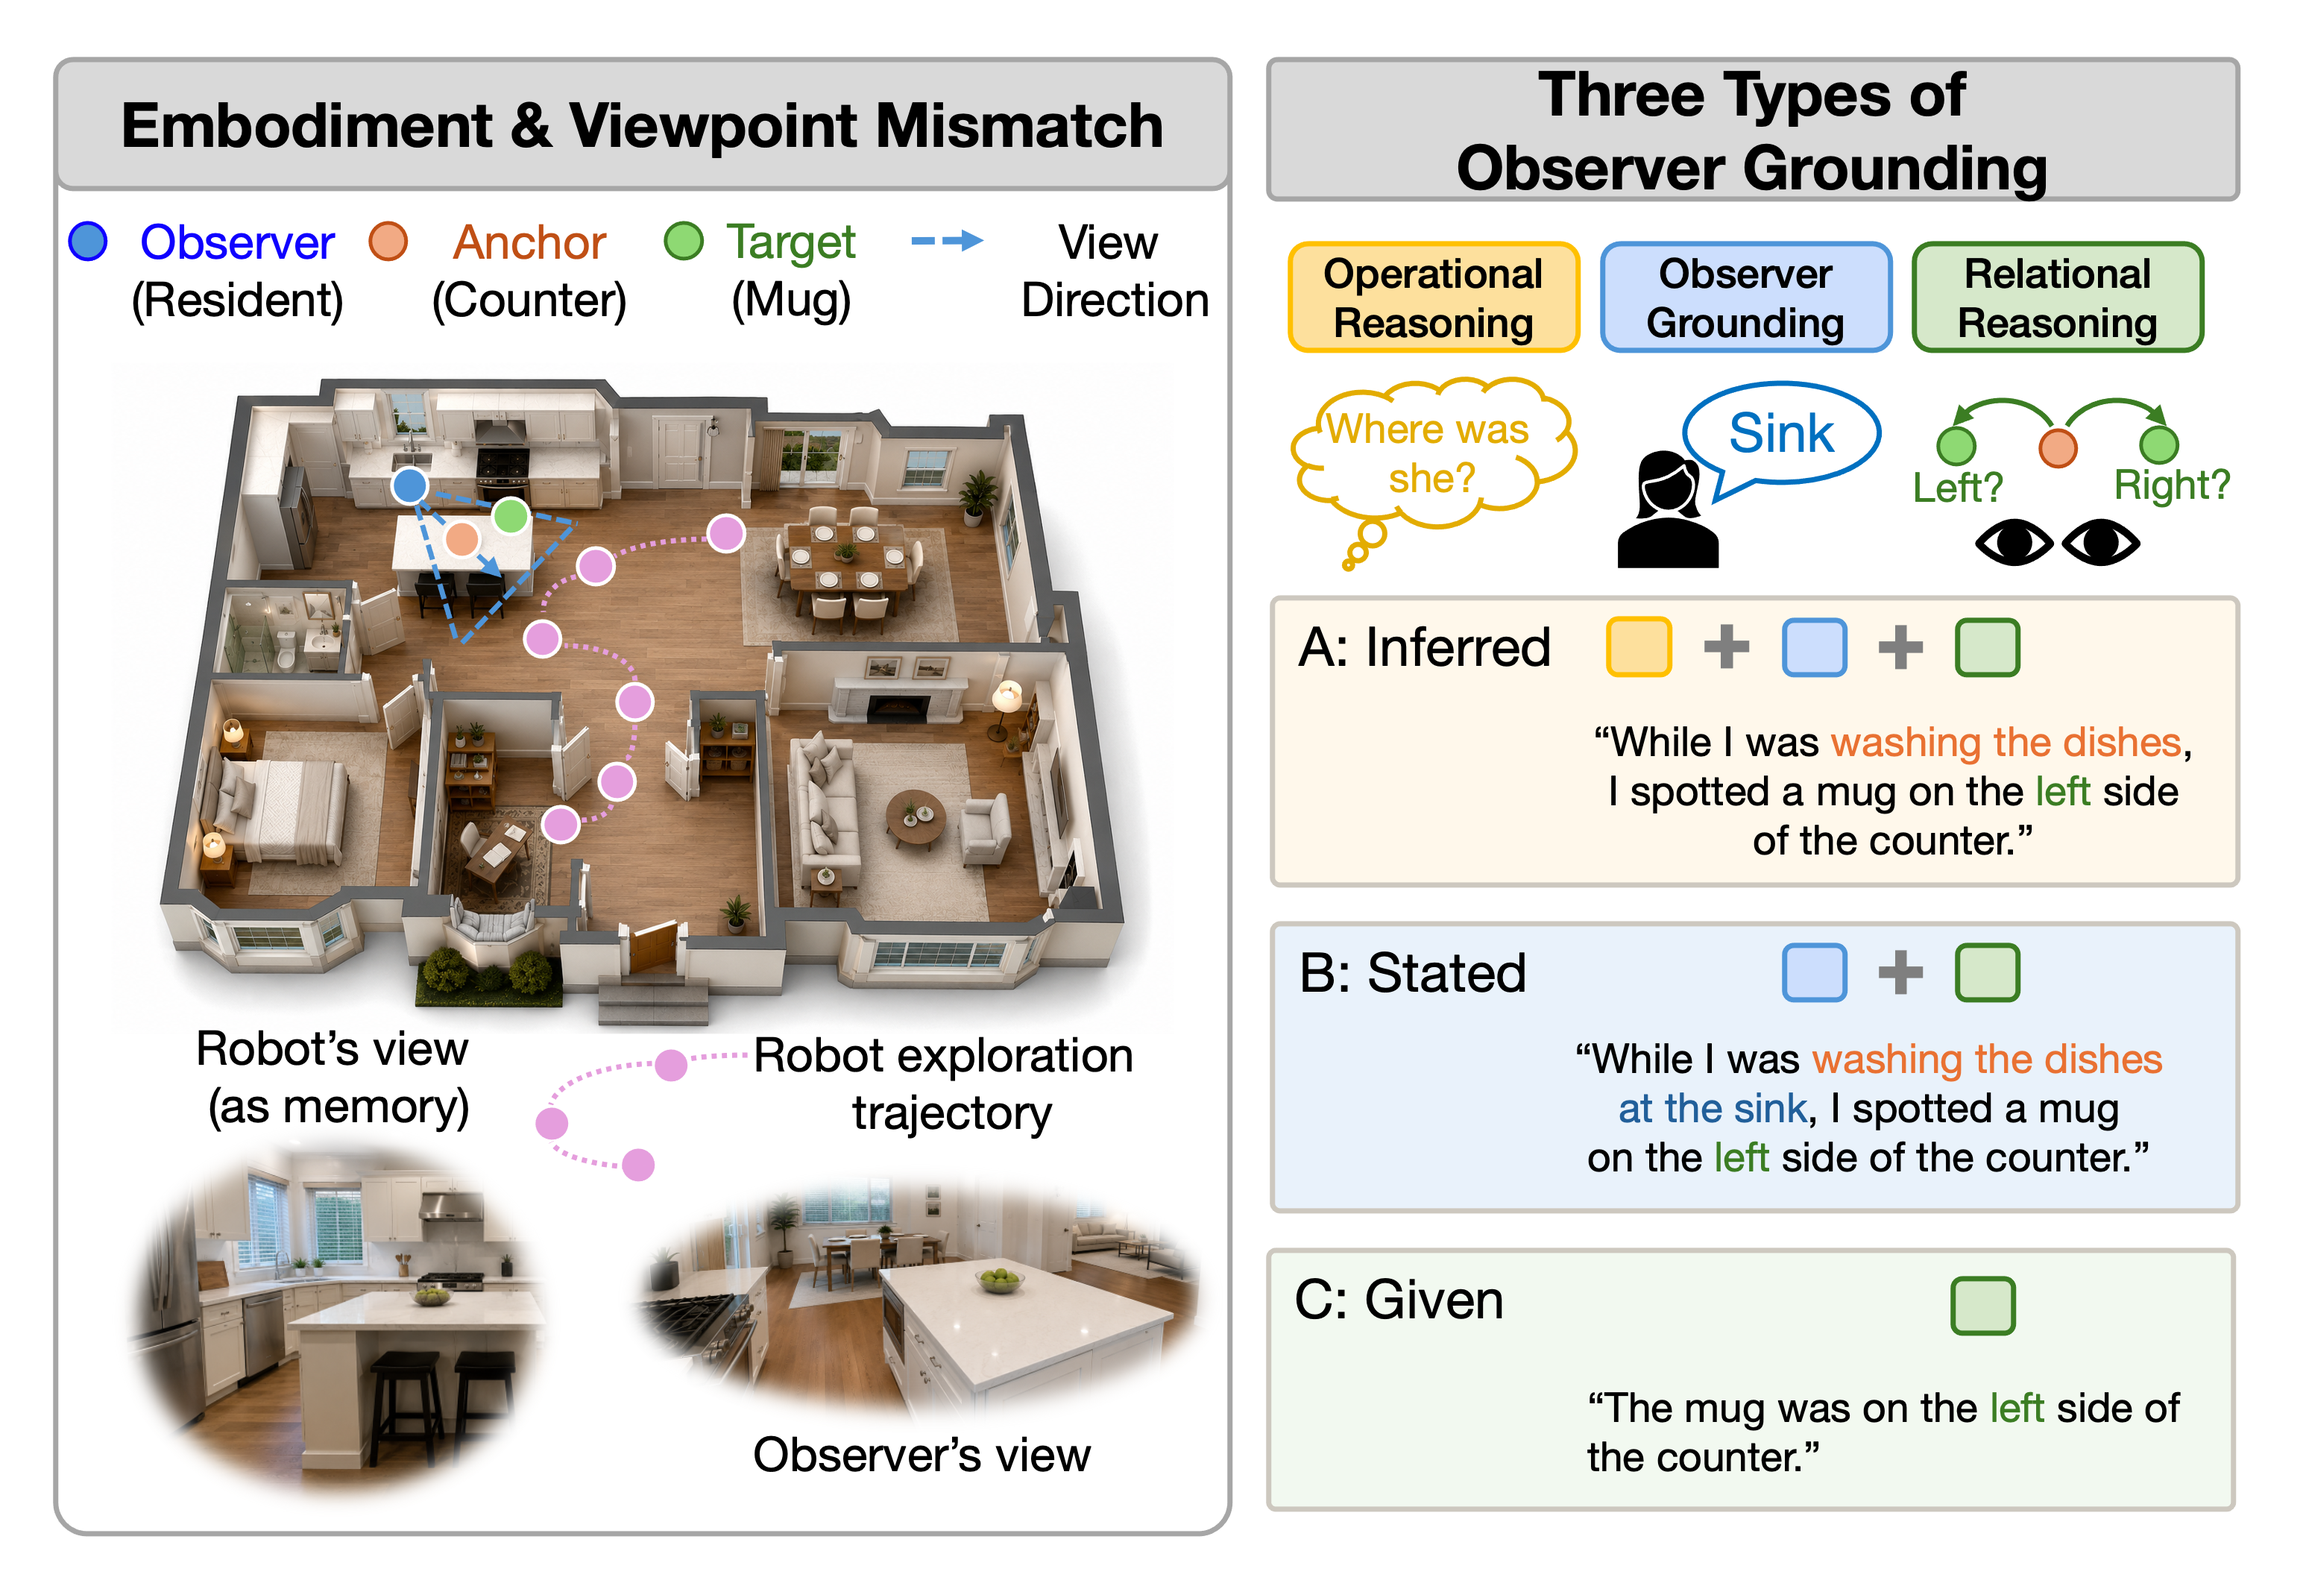
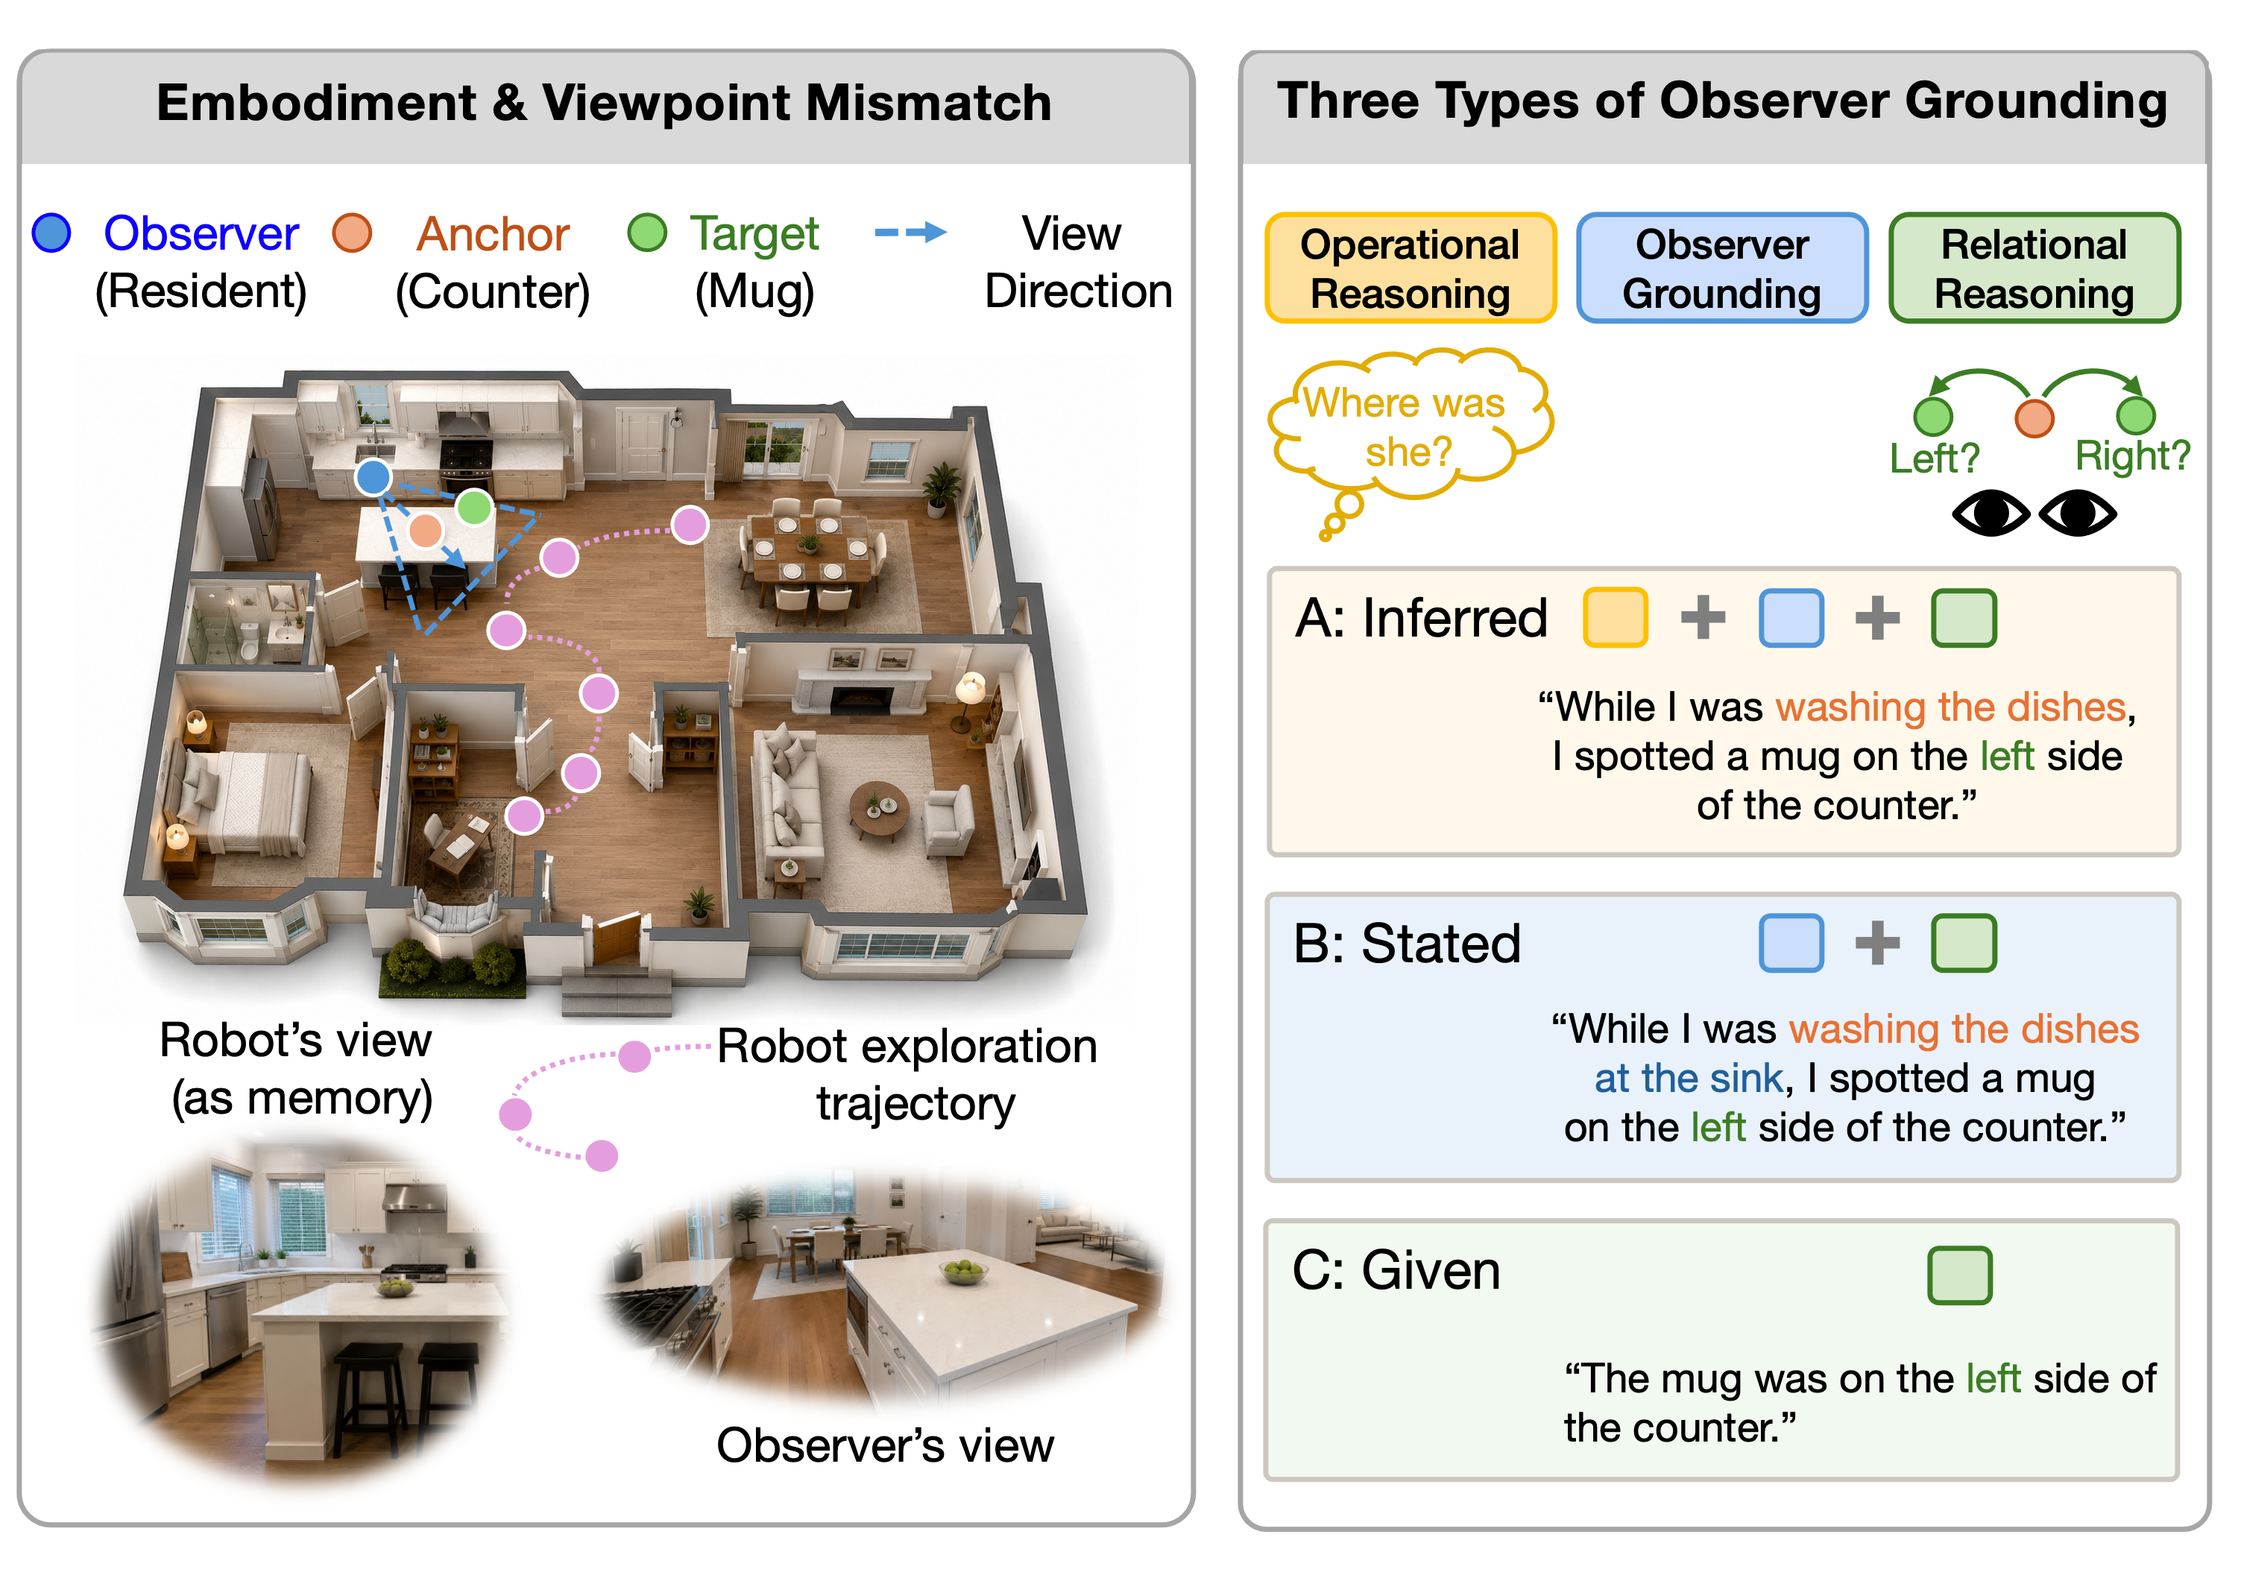
camera-ready

Changed region(s): [[0.0, 0.0312, 0.99, 0.9976], [0.2475, 0.7171, 0.2784, 0.7482]]

diff --git a/index.html b/index.html
@@ -36,7 +36,7 @@
 
   <header class="hero">
     <div class="container">
-      <h1 class="paper-title">Contextual-POV: Evaluating Situated Spatial Reasoning in Vision-Language Models</h1>
+      <h1 class="paper-title">Contextual Observer Grounding: Evaluating Situated Spatial Reasoning in Vision-Language Models</h1>
 
       <!-- <p class="venue">Preprint, 2026</p> -->
 
@@ -79,10 +79,9 @@
     <div class="container tldr-wrap">
       <p class="tldr">
         <span class="tldr-label">TL;DR</span>
-        We introduce <strong>POVBench</strong>, which disentangles three forms of observer
-        grounding: <em>inferred</em>, <em>stated</em>, and <em>given</em>. Evaluation reveals that
-        SOTA VLMs struggle most when the viewpoint must be inferred, and we explore reasoning
-        methods that improve localization.
+        We introduce <strong>POVBench</strong>, a benchmark for evaluating contextual observer
+        grounding, and show that mapping observer-relative language to object locations remains
+        a challenging problem for state-of-the-art VLMs.
       </p>
     </div>
   </section>
@@ -91,7 +90,7 @@
     <div class="container">
       <figure class="teaser">
         <img src="static/images/teaser.png" alt="Overview of contextual observer grounding in POVBench">
-        <figcaption>Figure 1. Overview of contextual observer grounding. Given robot exploration observations and a natural-language sentence, models must infer the observer viewpoint from contextual cues, reconstruct the situated spatial relation, and localize an underspecified target object. POVBench contains three grounding conditions: A) Inferred, B) Stated, and C) Given.</figcaption>
+        <figcaption>Figure 1. Overview of contextual observer grounding. Models infer the observer's location (<em>operational reasoning</em>), reconstruct their perspective (<em>observer grounding</em>), and localize the target (<em>relational reasoning</em>). Conditions <em>A: Inferred</em>, <em>B: Stated</em>, and <em>C: Given</em> require three, two, and one of these steps, respectively.</figcaption>
       </figure>
     </div>
   </section>
@@ -100,7 +99,7 @@
     <div class="container narrow">
       <h2>Abstract</h2>
       <p class="abstract">
-        Reasoning over language instructions in embodied tasks such as robotics often requires 3D understanding. Humans resolve implicit reference to objects through shared context, perspective-taking, and commonsense. Recent vision-language models (VLMs) appear capable of spatial reasoning in 2D, yet fail at embodied perspective reasoning: inferring an object's location from an implicit reference by combining perspective-taking with commonsense knowledge about human activity and physical environments. To address this, we construct the Point-of-View Benchmark (POVBench), a dataset of 3D scenes and queries that disentangles three forms of observer grounding in natural embodied communication: given, stated, and inferred. The tasks require models to reason over multi-view observations and localize target objects from situated spatial and contextual cues. Across state-of-the-art VLMs, we find that models struggle to map both implicit and explicit directional language into accurate object localizations, especially when the observer's perspective must be inferred from context. We further show that explicit reasoning over observer-centered spatial relations improves localization of underspecified objects.
+        Reasoning over language instructions in embodied tasks such as robotics often requires understanding spatial relations from a speaker's situated perspective. Humans infer such perspectives from shared environmental knowledge, activity context, and commonsense. Recent vision-language models (VLMs) appear capable of spatial reasoning, but their ability to infer a speaker's viewpoint from contextual cues and interpret situated spatial relations from that viewpoint remains unclear. We call this capability contextual observer grounding. To study this capability, we construct the Point-of-View Benchmark (POVBench), a dataset of 3D scenes and queries that disentangles Inferred, Stated, and Given forms of observer grounding in natural embodied communication. Given multi-view observations and a natural-language sentence, models must localize unseen or underspecified targets from situated spatial and contextual cues. Across state-of-the-art VLMs, localizing targets from directional language remains challenging, even when observer grounding is made explicit. We find that explicit breakdowns of observer-relative spatial reasoning improve target localization.
       </p>
     </div>
   </section>
@@ -142,7 +141,7 @@
     <div class="container narrow">
       <h2>BibTeX</h2>
       <pre class="bibtex"><code>@article{shirasaka2026contextualpov,
-  title   = {Contextual-POV: Evaluating Situated Spatial Reasoning in Vision-Language Models},
+  title   = {Contextual Observer Grounding: Evaluating Situated Spatial Reasoning in Vision-Language Models},
   author  = {Shirasaka, Mimo and Zhang, Haochen and Bisk, Yonatan},
   journal = {arXiv preprint arXiv:XXXX.XXXXX},
   year    = {2026}
